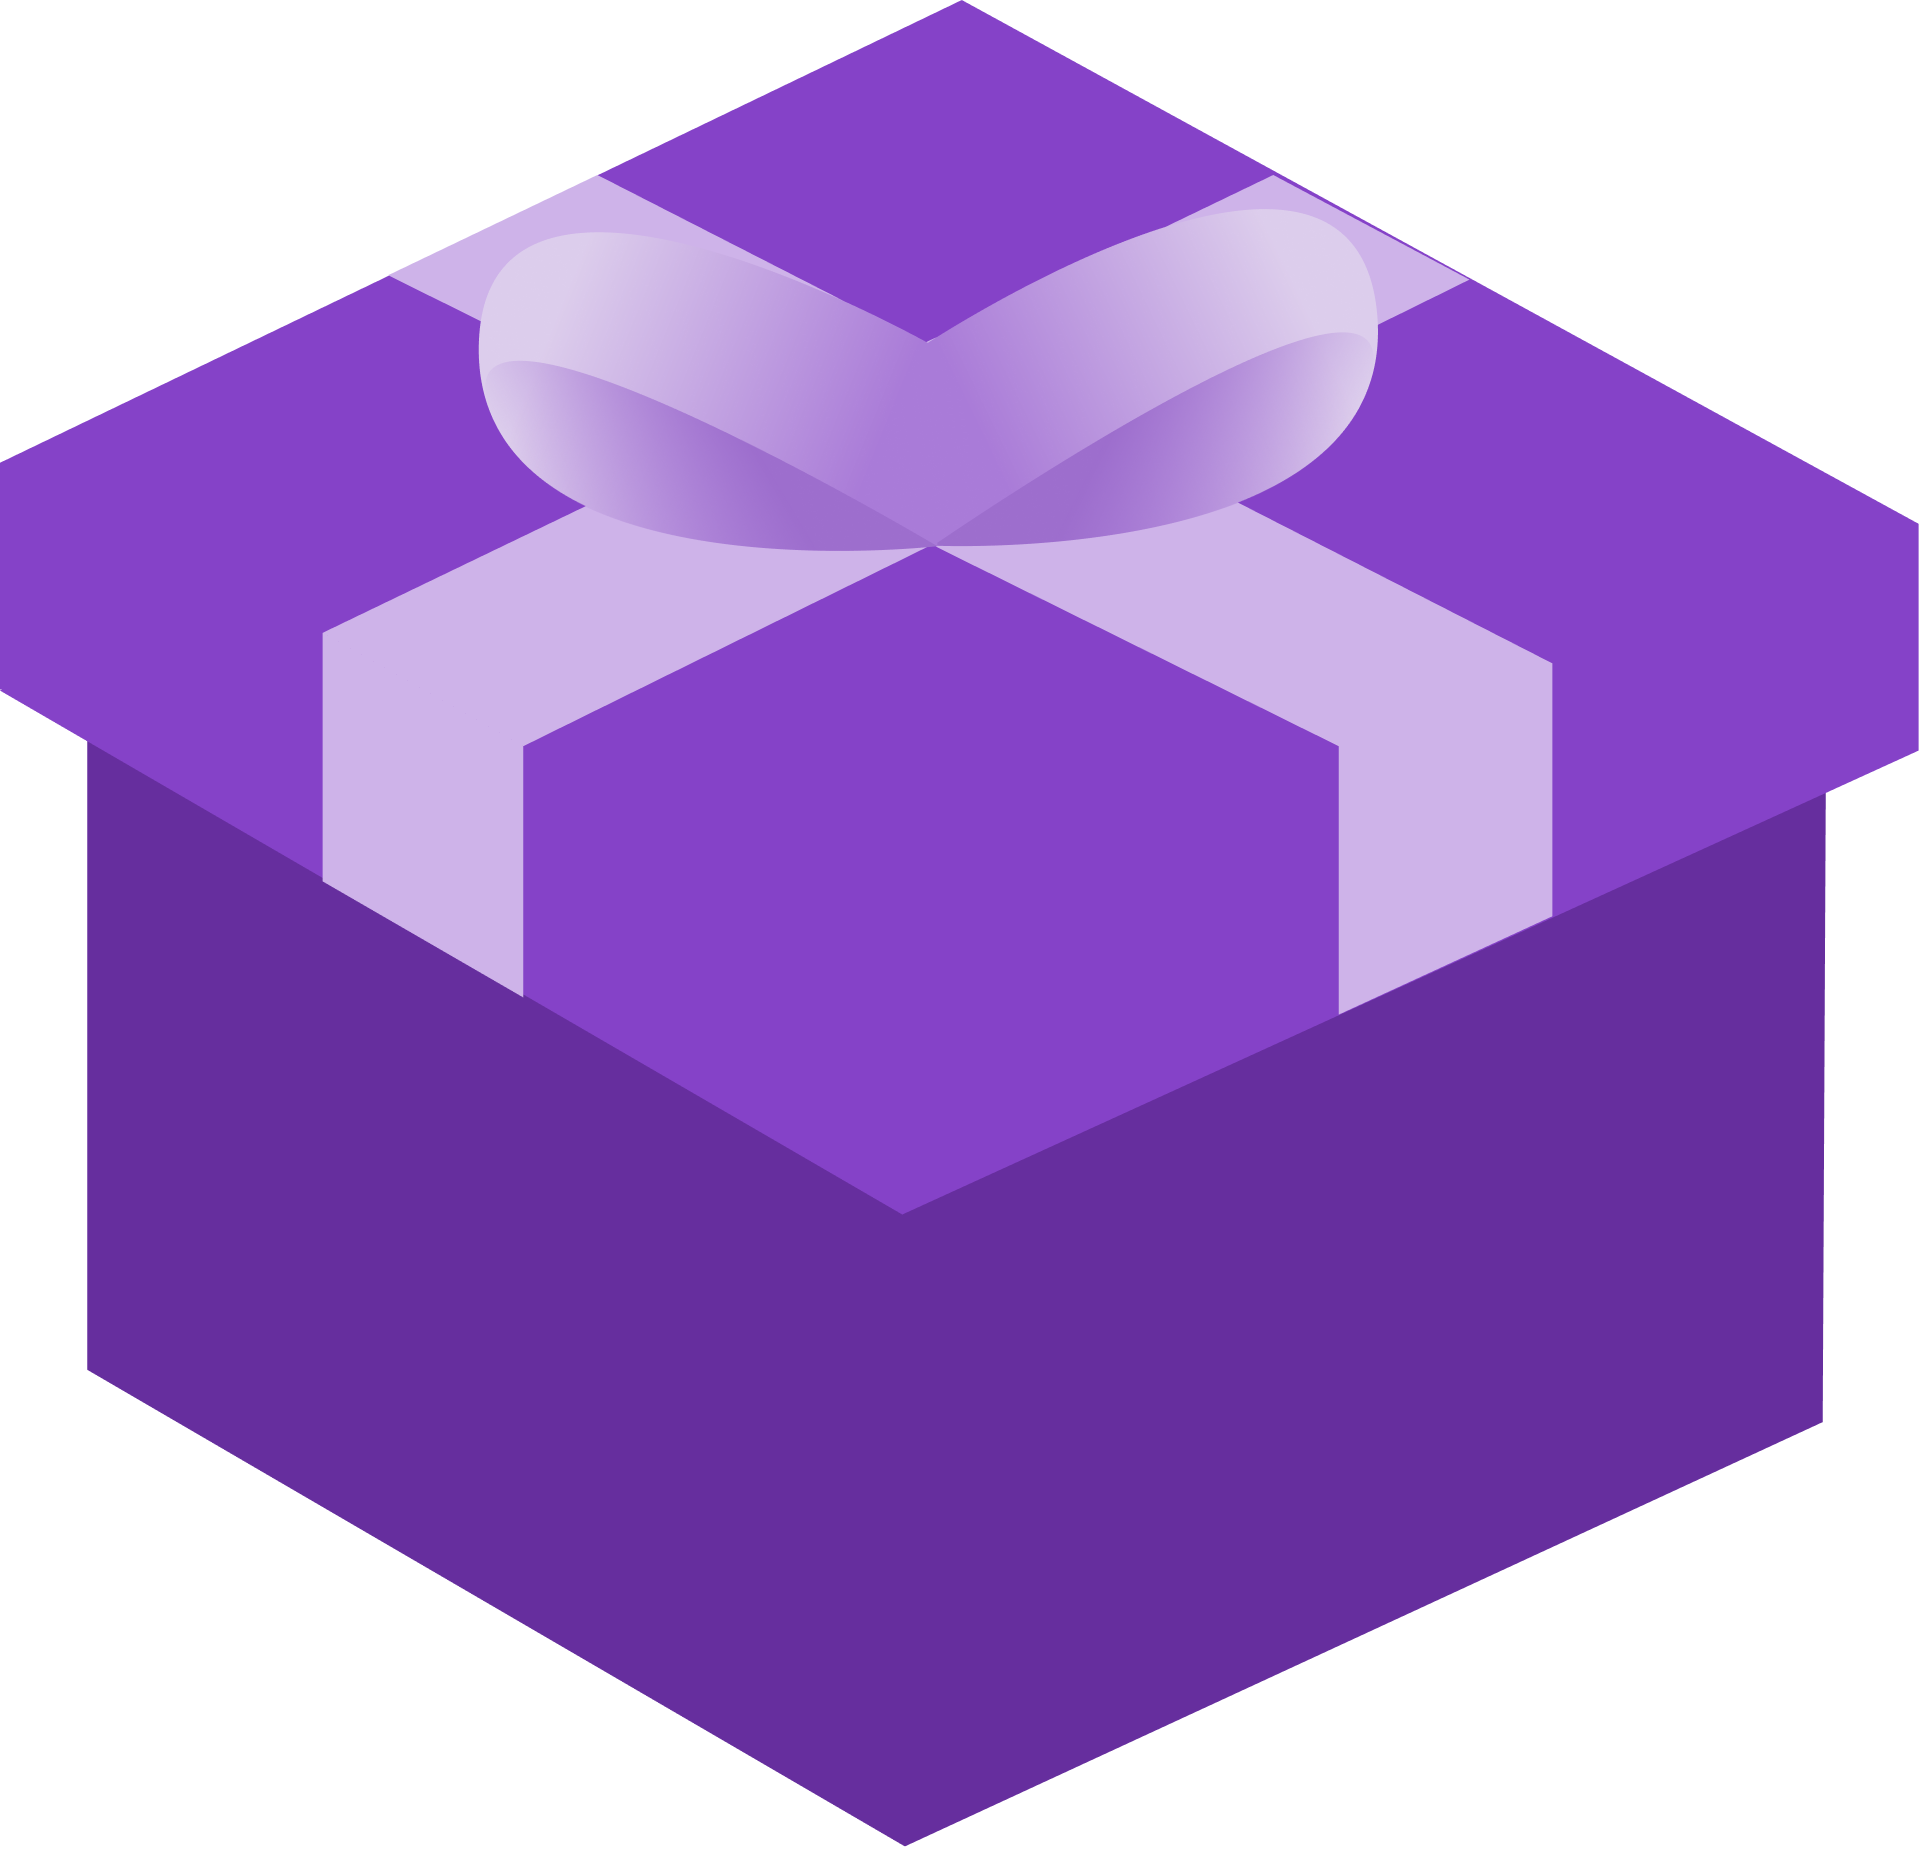
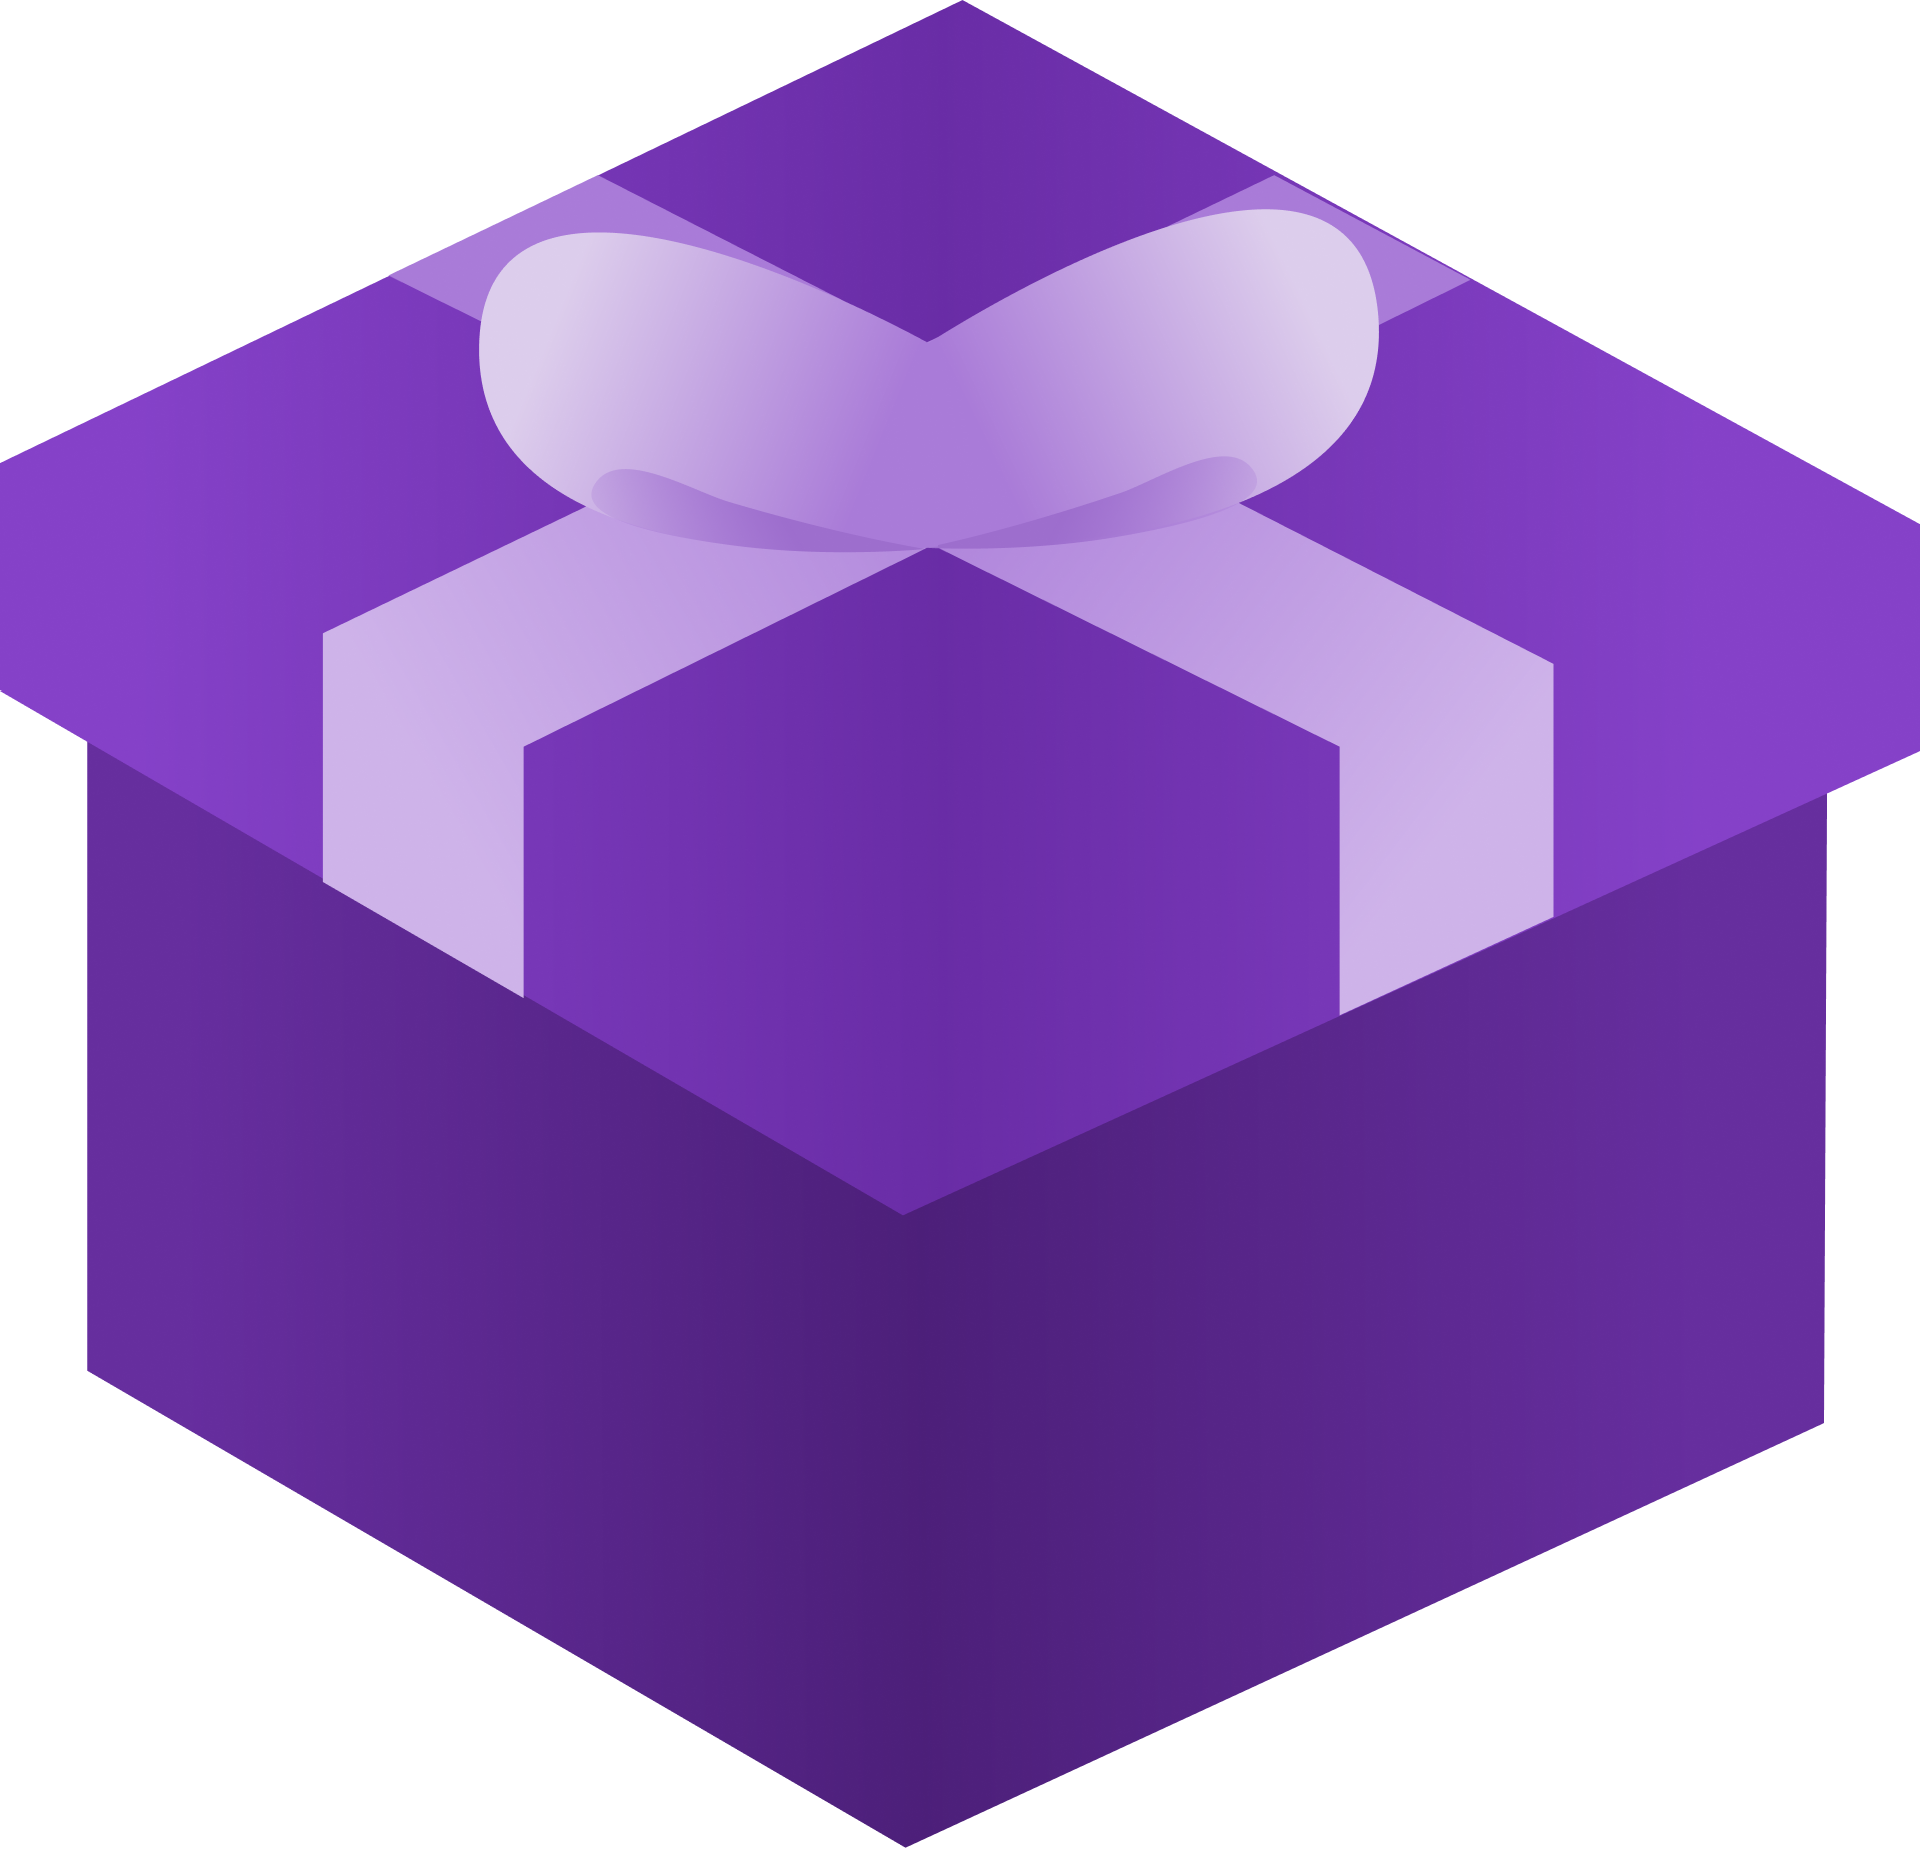
[*] Colors improvement. [*] Added more details to the 3D gift illustration.

Changed region(s): [[0.2812, 0.185, 0.6875, 1.0], [0.1875, 0.0, 0.7812, 0.185]]

diff --git a/css/style.css b/css/style.css
@@ -47,7 +47,7 @@ body {
 }
 
 #header img:nth-of-type(2):hover {
-  background-color: #eee;
+  background-color: rgba(0, 0, 0, 0.07);
 }
 
 #index {
@@ -62,16 +62,26 @@ body {
 .sub-title {
   padding-top: 2vh;
   font-size: 3.3vh;
-  color: #777;
+  color: rgba(0, 0, 0, 0.5);
 }
 
 #index div {
-  padding-top: 6vh;
+  display: flex;
+  justify-content: center;
+  align-items: center;
+  border-radius: 50%;
+}
+
+#index div > div {
+  margin-top: 4vh;
+  height: 28vh;
+  width: 28vh;
+  background-color: rgba(133, 66, 200, 0.2);
 }
 
 #index div > img:nth-of-type(1) {
-  width: 20vh;
-  height: 20vh;
+  width: 18vh;
+  height: 18vh;
 }
 
 .button {
@@ -84,7 +94,7 @@ body {
   font-size: 3.5vh;
   text-align: left;
   padding-left: 2vh;
-  margin-top: 6vh;
+  margin-top: 4vh;
   background-image: url("../img/arrowRight.png");
   background-position: 95% 50%;
   background-size: 8vh;
@@ -100,14 +110,14 @@ body {
 #index p:nth-of-type(3) {
   font-size: 2.5vh;
   text-align: center;
-  color: #777;
+  color: rgba(0, 0, 0, 0.4);
   padding-top: 2vh;
   cursor: pointer;
   transition: 0.2s;
 }
 
 #index p:nth-of-type(3):hover {
-  color: #444;
+  color: rgba(0, 0, 0, 0.3);
 }
 
 #background-panel {
@@ -127,7 +137,7 @@ body {
   width: 100%;
   max-width: 600px;
   border-radius: 4vh 4vh 0 0;
-  background-color: rgba(170, 170, 170, 0.5);
+  background-color: rgba(238, 238, 238, 0.7);
   padding-bottom: 4vh;
   transition: 0.4s;
   margin-bottom: -100vh;
@@ -145,7 +155,7 @@ body {
   width: 90%;
   display: block;
   margin-top: 3.5vh;
-  background-color: rgba(0, 0, 0, 0.2);
+  background-color: rgba(0, 0, 0, 0.06);
   border-radius: 2vh;
   border: none;
   font-size: 3.5vh;

diff --git a/index.html b/index.html
@@ -35,8 +35,10 @@
             <div id='index'>
                 <p class='title'>Need an app to help you host a Secret Santa?</p>
                 <p class='sub-title'>Enter the names, gift suggestions, and more for free!</p>
-                <div align='center'>
-                    <img src='img/Gift3d.png'>
+                <div>
+                    <div align='center'>
+                        <img src='img/Gift3d.png'>
+                    </div>
                 </div>
                 <button class='button'>Start</button>
                 <p onclick="openSettings('use')">How to use</p>
